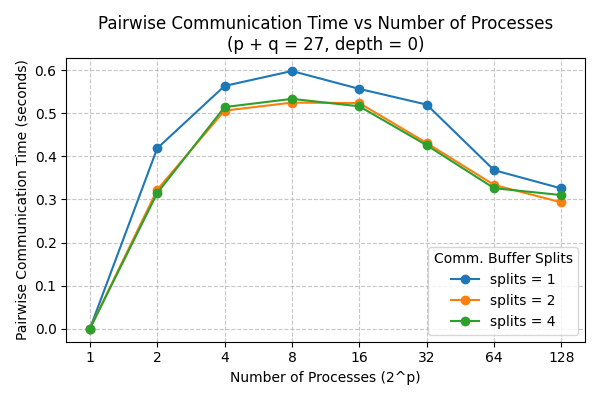
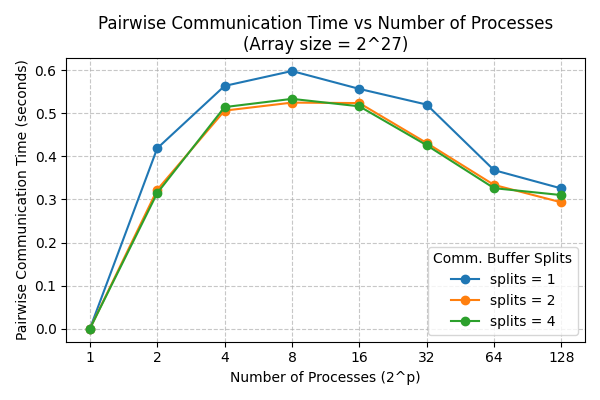
Update plots

Changed region(s): [[0.36, 0.09, 0.72, 0.15], [0.72, 0.63, 0.96, 0.66]]

diff --git a/benchmarks/plot_benchmarks.py b/benchmarks/plot_benchmarks.py
@@ -79,41 +79,6 @@ def export_timing_percentages(df, data_dir, target_sum):
     print(f"Filtered timing percentages exported at {export_path}")
 
 
-def plot_total_time_vs_elements(df, figures_dir):
-    """
-    Plot total execution time vs number of elements (2^(p+q)) for different p values.
-    Only for rows where q == s and depth == 0.
-    """
-    df_filtered = df[(df['q'] == df['s']) & (df['depth'] == 0)]
-    if df_filtered.empty:
-        print("No matching rows found where q == s, depth == 0 (total time vs elements plot). Skipping plot.")
-        return
-
-    df_filtered = df_filtered.copy()
-    df_filtered['elements'] = 2 ** (df_filtered['p'] + df_filtered['q'])
-
-    plt.figure(figsize=(6, 4))
-    unique_p = sorted(df_filtered['p'].unique())
-
-    for p_val in unique_p:
-        df_p = df_filtered[df_filtered['p'] == p_val].sort_values('elements')
-        plt.plot(df_p['elements'], df_p['t_total'], marker='o', label=f'p={p_val} (proc={2**p_val})')
-
-    plt.xscale('log', base=2)
-    plt.xlabel('Number of Elements (2^(p+q))')
-    plt.ylabel('Total Execution Time (seconds)')
-    plt.title('Total Execution Time vs Number of Elements (filtered q == s, depth == 0)')
-    plt.grid(True, linestyle='--', alpha=0.7)
-    plt.legend(title='p values')
-    plt.tight_layout()
-
-    os.makedirs(figures_dir, exist_ok=True)
-    save_path = os.path.join(figures_dir, 'total_time_vs_elements.png')
-    plt.savefig(save_path)
-    plt.close()
-    print(f"Total time vs elements plot saved at {save_path}")
-
-
 def plot_pairwise_comm_vs_procs(df, figures_dir, target_sum):
     """
     Plot pairwise communication time vs number of processes (2^p) for different communication buffer splits (2^(q-s)).
@@ -146,7 +111,7 @@ def plot_pairwise_comm_vs_procs(df, figures_dir, target_sum):
     ax.set_xticklabels(x_labels)
     ax.set_xlabel('Number of Processes (2^p)')
     ax.set_ylabel('Pairwise Communication Time (seconds)')
-    ax.set_title(f'Pairwise Communication Time vs Number of Processes\n(p + q = {target_sum}, depth = 0)')
+    ax.set_title(f'Pairwise Communication Time vs Number of Processes\n(Array size = 2^{target_sum})')
     plt.legend(title='Comm. Buffer Splits')
     plt.grid(True, linestyle='--', alpha=0.7)
     plt.tight_layout()
@@ -197,6 +162,98 @@ def plot_total_time_vs_procs_by_depth(df, figures_dir, target_sum):
     print(f"Total time vs processes (by depth) plot saved at {save_path}")
 
 
+def export_speedups_vs_depth(df, data_dir, target_sum):
+    """
+    Export a table with columns:
+    p, q, initial_speedup_depth1, total_speedup_depth1, initial_speedup_depth2, total_speedup_depth2
+    for rows where p + q == target_sum and s == q.
+    Speedup is relative to depth == 0.
+    """
+    df_filtered = df[(df['p'] + df['q'] == target_sum) & (df['s'] == df['q'])]
+    if df_filtered.empty:
+        print(f"No matching rows found for p + q = {target_sum}, s == q (speedup export). Skipping export.")
+        return
+
+    base_df = df_filtered[df_filtered['depth'] == 0]
+    if base_df.empty:
+        print(f"No baseline (depth == 0) rows found. Cannot compute speedups.")
+        return
+
+    # Prepare list of rows for output
+    rows = []
+    unique_pq = base_df[['p', 'q']].drop_duplicates()
+
+    for _, pq_row in unique_pq.iterrows():
+        p, q = pq_row['p'], pq_row['q']
+
+        base_row = base_df[(base_df['p'] == p) & (base_df['q'] == q)].iloc[0]
+
+        row_data = {
+            'p': int(p),
+            'q': int(q),
+            'initial_speedup_depth1': np.nan,
+            'total_speedup_depth1': np.nan,
+            'initial_speedup_depth2': np.nan,
+            'total_speedup_depth2': np.nan
+        }
+
+        for depth in [1, 2]:
+            depth_row = df_filtered[(df_filtered['p'] == p) & (df_filtered['q'] == q) & (df_filtered['depth'] == depth)]
+            if not depth_row.empty:
+                depth_row = depth_row.iloc[0]
+                row_data[f'initial_speedup_depth{depth}'] = base_row['t_initial_sort'] / depth_row['t_initial_sort']
+                row_data[f'total_speedup_depth{depth}'] = base_row['t_total'] / depth_row['t_total']
+
+        rows.append(row_data)
+
+    export_df = pd.DataFrame(rows)
+
+    os.makedirs(data_dir, exist_ok=True)
+    export_path = os.path.join(data_dir, 'speedups_vs_depth.dat')
+    export_df.to_csv(export_path, index=False, float_format='%.2f')
+    print(f"Speedups table (depth 1 & 2) exported at {export_path}")
+
+
+def plot_total_time_vs_procs_by_q(df, figures_dir):
+    """
+    Plot total execution time vs number of processes (2^p) for different q values,
+    filtered by s == q and depth == 0.
+    """
+    df_filtered = df[(df['s'] == df['q']) & (df['depth'] == 0)]
+    if df_filtered.empty:
+        print("No matching rows found where s == q and depth == 0 (total time vs procs by q). Skipping plot.")
+        return
+
+    plt.figure(figsize=(7, 5))
+
+    unique_q = sorted(df_filtered['q'].unique())
+    unique_p = sorted(df_filtered['p'].unique())
+    x_mapping = {p: i for i, p in enumerate(unique_p)}
+    x_labels = [str(2**p) for p in unique_p]
+
+    for q_val in unique_q:
+        df_q = df_filtered[df_filtered['q'] == q_val].sort_values('p')
+        x = df_q['p'].map(x_mapping)
+        plt.plot(x, df_q['t_total'], marker='o', label=f'q = {q_val}')
+
+    ax = plt.gca()
+    ax.set_xticks(list(range(len(unique_p))))
+    ax.set_xticklabels(x_labels)
+    ax.set_xlabel('Number of Processes (2^p)')
+    ax.set_ylabel('Total Execution Time (seconds, log2 scale)')
+    ax.set_yscale('log', base=2)
+    plt.title('Total Execution Time vs Number of Processes by q\n(s = q, depth = 0)')
+    plt.legend(title='q values')
+    plt.grid(True, linestyle='--', alpha=0.7)
+    plt.tight_layout()
+
+    os.makedirs(figures_dir, exist_ok=True)
+    save_path = os.path.join(figures_dir, 'total_time_vs_procs_by_q.png')
+    plt.savefig(save_path)
+    plt.close()
+    print(f"Total time vs processes (by q) plot saved at {save_path}")
+
+
 if __name__ == "__main__":
     if len(sys.argv) < 4:
         print("Usage: python plot_bitonic_timing.py <log_file_path> <figures_save_dir> <data_save_dir>")
@@ -212,7 +269,7 @@ if __name__ == "__main__":
 
     export_timing_percentages(df, data_dir, 27)
     plot_stacked_timing(df, figures_dir, 27)
-    plot_total_time_vs_elements(df, figures_dir)
     plot_pairwise_comm_vs_procs(df, figures_dir, 27)
     plot_total_time_vs_procs_by_depth(df, figures_dir, 27)
-
+    export_speedups_vs_depth(df, data_dir, 27)
+    plot_total_time_vs_procs_by_q(df, figures_dir)
